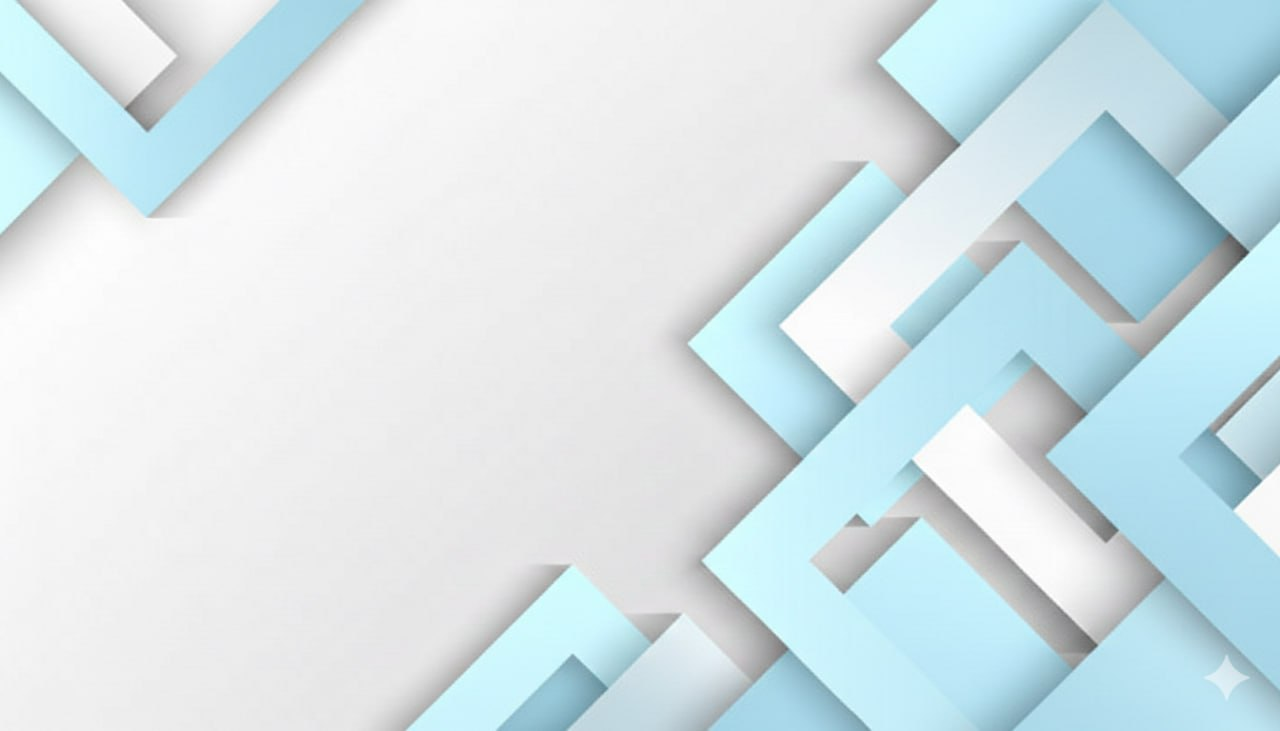
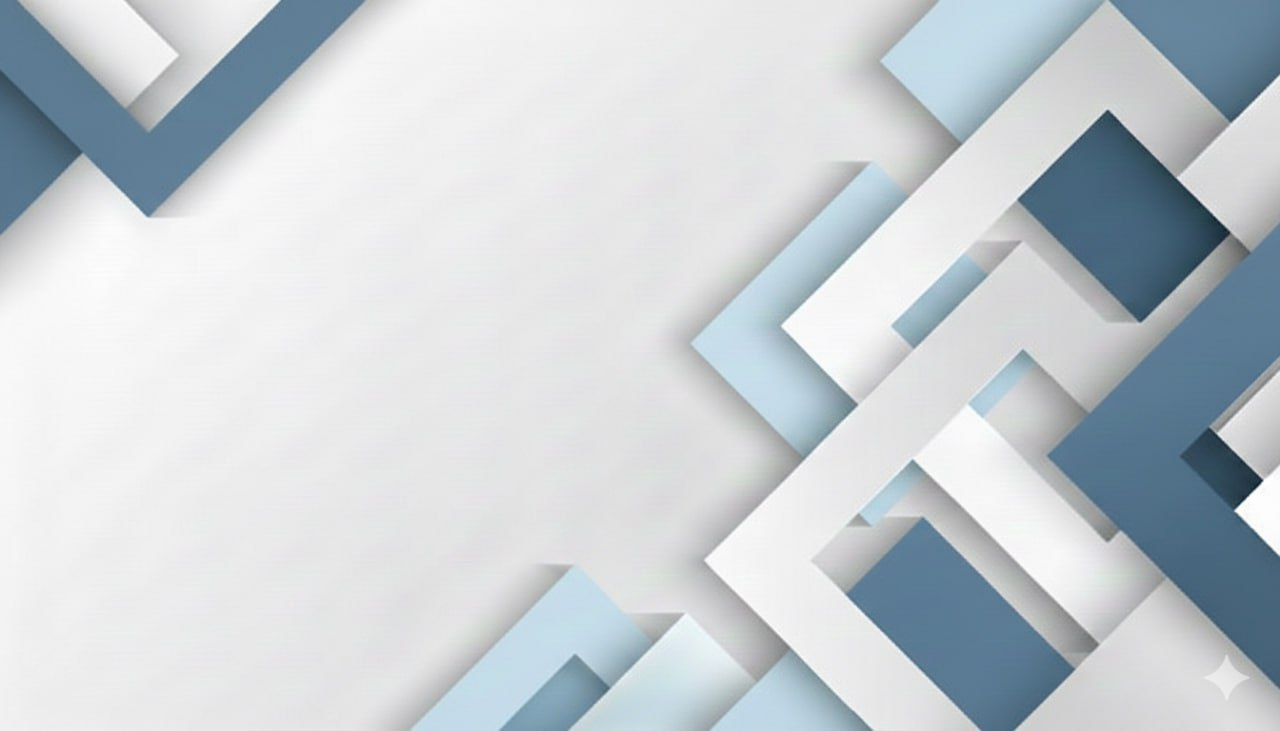
edit colour

diff --git a/src/View/LoginView.java b/src/View/LoginView.java
@@ -24,7 +24,8 @@ public class LoginView extends JFrame {
 
 
         //background image
-        LogInBackground bg = new LogInBackground("./assets/log in background.jpeg");
+       // LogInBackground bg = new LogInBackground("./assets/log in background.jpeg");
+        LogInBackground bg = new LogInBackground("./assets/walll.jpg");
         bg.setLayout(new GridBagLayout());
         this.setContentPane(bg);
 
@@ -32,7 +33,8 @@ public class LoginView extends JFrame {
         card = new JPanel(){
             @Override
             protected void paintComponent(Graphics g) {
-                Image img = new ImageIcon("./assets/login card.jpeg").getImage();
+              //  Image img = new ImageIcon("./assets/login card.jpeg").getImage();
+                Image img = new ImageIcon("./assets/cardd.png").getImage();
                 g.drawImage(img, 0, 0, getWidth(), getHeight(), this);
             }
         };
